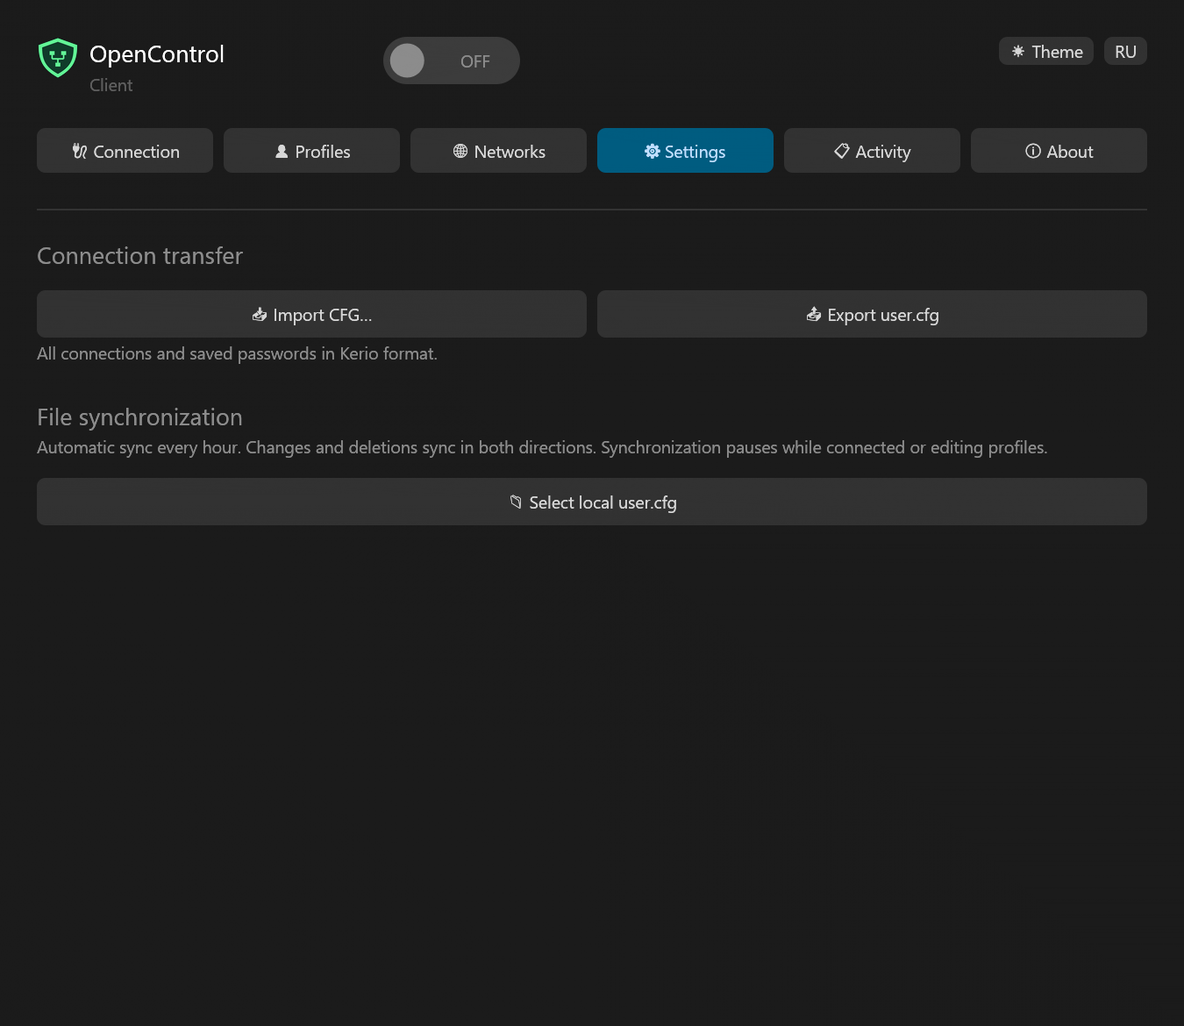
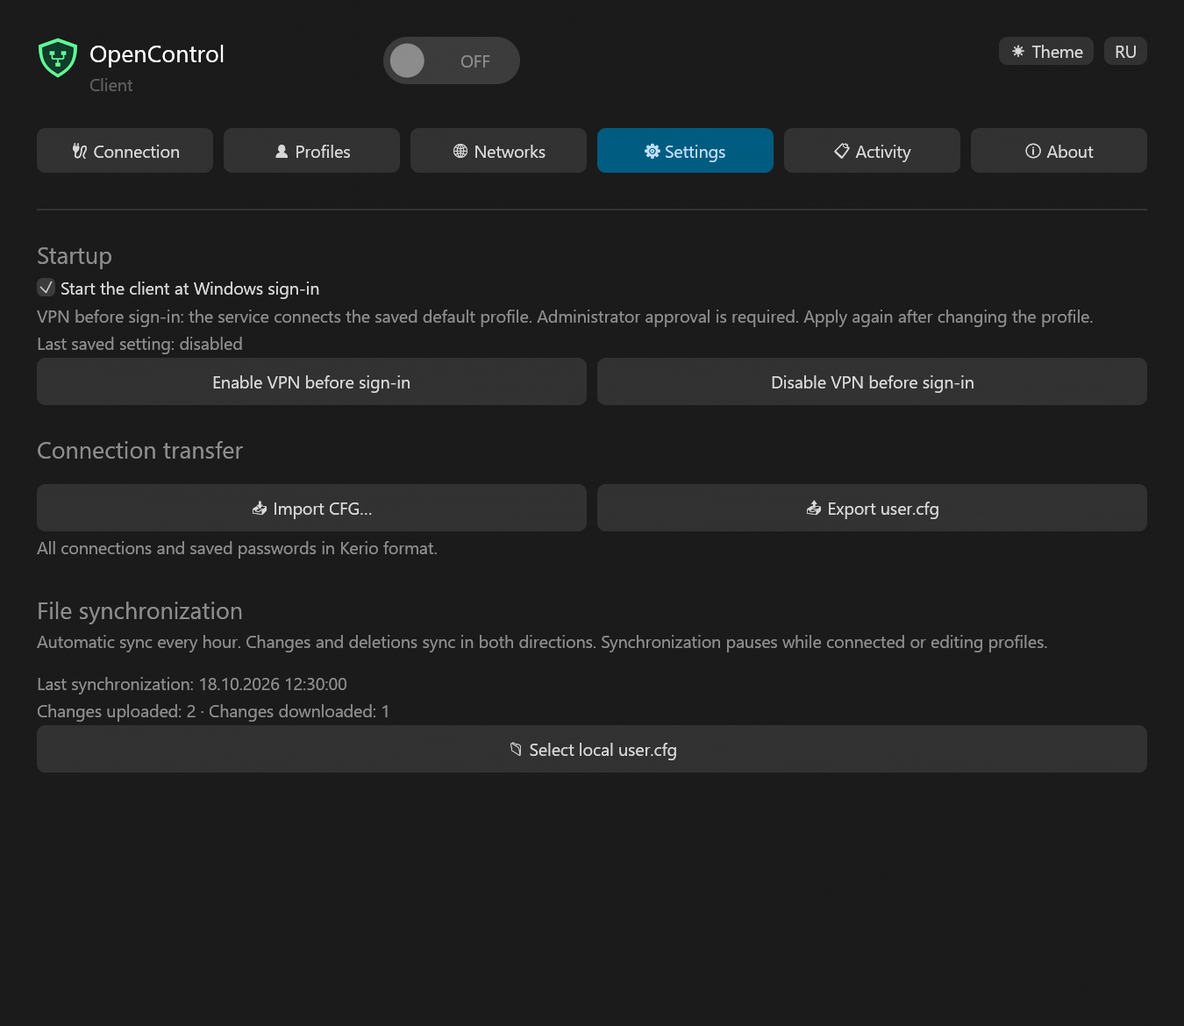
OpenControl Client 1.0.3

diff --git a/README.en.md b/README.en.md
@@ -2,7 +2,7 @@
 <h1 align="center">OpenControl Client</h1>
 <p align="center">Your organization’s network · Windows 10 / 11</p>
 <p align="center"><a href="README.md">Русский</a> · <b>English</b></p>
-<p align="center"><a href="https://github.com/nr084/opencontrol-client-windows-releases/releases/latest">Download 1.0.2</a> · <a href="RELEASE_NOTES.md">What’s new</a> · <a href="SHA256SUMS">SHA256</a></p>
+<p align="center"><a href="https://github.com/nr084/opencontrol-client-windows-releases/releases/latest">Download 1.0.3</a> · <a href="RELEASE_NOTES.md">What’s new</a> · <a href="SHA256SUMS">SHA256</a></p>
 
 OpenControl connects your PC to a private corporate network through Kerio Control. Your organization supplies the server address and account. This independent client is not an official Kerio/GFI product or a provider of VPN access.
 
@@ -14,9 +14,9 @@ Each MSI includes Russian and English. **Russian is the default on first launch*
 
 | Computer | Download |
 |---|---|
-| Intel / AMD 64-bit PC | [x64](https://github.com/nr084/opencontrol-client-windows-releases/releases/download/v1.0.2/OpenControl-client-1.0.2-windows-x64.msi) |
-| Windows 10, 32-bit | [x86](https://github.com/nr084/opencontrol-client-windows-releases/releases/download/v1.0.2/OpenControl-client-1.0.2-windows-x86.msi) |
-| Windows on ARM, including a Windows 11 VM on Mac | [ARM64](https://github.com/nr084/opencontrol-client-windows-releases/releases/download/v1.0.2/OpenControl-client-1.0.2-windows-arm64.msi) |
+| Intel / AMD 64-bit PC | [x64](https://github.com/nr084/opencontrol-client-windows-releases/releases/download/v1.0.3/OpenControl-client-1.0.3-windows-x64.msi) |
+| Windows 10, 32-bit | [x86](https://github.com/nr084/opencontrol-client-windows-releases/releases/download/v1.0.3/OpenControl-client-1.0.3-windows-x86.msi) |
+| Windows on ARM, including a Windows 11 VM on Mac | [ARM64](https://github.com/nr084/opencontrol-client-windows-releases/releases/download/v1.0.3/OpenControl-client-1.0.3-windows-arm64.msi) |
 
 1. Install the app. Desktop and Start menu shortcuts are created by default.
 2. Add a connection in **Profiles**, or import your CFG in **Settings**.
@@ -35,7 +35,7 @@ Once connected, the window hides in the tray and a notification identifies the t
 | Reconnect | Right-click the tray → Reconnect; the old session finishes before the next starts |
 | Disconnect or exit | Disconnect ends VPN; Exit also closes the app |
 | Traffic totals | Hover over the tray for session Upload / Download; totals also appear in the window |
-| Windows startup | Starts in the tray without connecting VPN automatically; disable in Windows Startup Apps if desired |
+| Windows startup | Starts in the tray without connecting VPN automatically; enable or disable it in Settings |
 | Appearance | Light/dark theme, Windows Segoe UI, DPI scaling and multi-size icons; no 3D accelerator required |
 | Activity | Connection events, without passwords or packet contents |
 
@@ -45,7 +45,7 @@ Windows may put the icon in its overflow area. Notification visibility depends o
 
 ![Activity](assets/activity-en.png)
 
-The activity log keeps the time, tunnel name, connections, disconnections and errors across profile changes: up to 500 events in memory until exit, newest first, using Windows local time. The client reports its actual version to the server: **1.0.2 · build 3**, visible on the next connection.
+The activity log keeps the time, tunnel name, connections, disconnections and errors across profile changes: up to 500 events in memory until exit, newest first, using Windows local time. The client reports its actual version to the server: **1.0.3 · build 4**, visible on the next connection.
 
 With multiple profiles, use **Switch profile** in the tray menu: choosing a profile disconnects the old tunnel and connects the selected one automatically. A password or certificate prompt appears only when needed.
 
@@ -71,6 +71,8 @@ New or changed certificates require confirmation; expired certificates require a
 
 Duplicates require **Keep existing**, **Replace from file**, or **Keep both**. Normal import leaves the original file unchanged. Up to 100 profiles are supported.
 
+Export follows the Kerio layout: UTF-8 without BOM, LF, two-space indentation and an `application` section. Synchronization preserves existing application options.
+
 **Export user.cfg** saves all profiles and saved passwords in Kerio format; session-only passwords are excluded. The file contains portable passwords, so treat it as access data. Synthetic re-import is tested; acceptance by the external Kerio client still needs checking.
 
 **Select local user.cfg** links the profile list to a file:
@@ -82,6 +84,8 @@ Duplicates require **Keep existing**, **Replace from file**, or **Keep both**. N
 - A missing or malformed file never clears the profile list.
 - **Unlink file** preserves both the file and local profiles.
 
+Settings shows the last sync time, uploaded/downloaded change counts or an error reason. Current profile/password edits are saved first. Temporary errors retry hourly; conflicts require a decision.
+
 Network paths are unsupported. The file is not uploaded to the cloud.
 
 ## Networks outside VPN
@@ -89,6 +93,18 @@ Network paths are unsupported. The file is not uploaded to the cloud.
 ![Network exclusions](assets/networks-en.png)
 
 In **Networks**, enter destinations that should use your regular connection, such as `192.168.1.0/24` or `10.0.0.5/32`. These are shared IPv4 exclusions for all profiles, up to 128 entries, applied on the next connection. Per-app routing and IPv6 exclusions are not provided.
+
+## VPN before Windows sign-in
+
+1. In **Profiles**, choose the default profile, save its password and trust the server certificate.
+2. In **Settings**, choose **Enable VPN before sign-in** and approve UAC.
+3. On the next Windows start, the service connects the saved profile before anyone signs in, retrying temporary network failures.
+
+After sign-in the client takes control of the running tunnel. Disconnecting or switching profiles finishes the previous tunnel first. **Disable VPN before sign-in** disables future service-start connections; use the ordinary switch to disconnect the current session. Apply the setting again after changing the password, certificate, default profile or network exclusions.
+
+This is a computer-wide setting. Its protected connection copy uses Windows DPAPI and SYSTEM/Administrators-only access. Configuration requires administrator approval. Unknown or changed certificates are never silently accepted. Uninstall removes this copy; upgrades preserve it.
+
+**Start the client at Windows sign-in** controls only the user application, independently of the pre-sign-in VPN.
 
 ## Updates, uninstall and checks
 
@@ -102,7 +118,7 @@ Uninstall through **Windows Settings → Apps → OpenControl Client → Uninsta
 
 The Wintun driver is officially signed. Project EXE/MSI files are not yet publisher-signed. Check [SHA256SUMS](SHA256SUMS).
 
-79 automated tests, three architecture builds and MSI content checks passed. Retry after authentication failure was tested with a synthetic Windows pipe; native tray updates were also checked. Full operation on the target ARM VM and a real firewall remains outside these tests. See [VALIDATION.md](VALIDATION.md).
+85 automated tests, three architecture builds and MSI content checks passed. Retry after authentication failure was tested with a synthetic Windows pipe; native tray updates were also checked. Full operation on the target ARM VM and a real firewall remains outside these tests. See [VALIDATION.md](VALIDATION.md).
 
 All screenshots contain fictional profiles. This repository publishes installers and documentation; client sources are private. The [protocol library](https://github.com/nr084/opencontrol-protocol) is a separate public project.
 

diff --git a/VALIDATION.md b/VALIDATION.md
@@ -1,13 +1,13 @@
-# Validation / Проверки — 1.0.2
+# Validation / Проверки — 1.0.3
 
-Date / Дата: 2026-10-16.
+Date / Дата: 2026-10-18.
 
 | Check / Проверка | Result / Результат |
 |---|---|
 | Rust stable | 1.99.1, upstream check passed |
 | OpenControl Protocol | 0.2.0, upstream HEAD 35a5c848fb2a25a64da36268026906ce3757b974 |
 | Format + clippy all targets, warnings denied | Passed / Пройдено |
-| Unit + ROUTES regression tests | 75 + 4 = 79 passed |
+| Unit + ROUTES regression tests | 81 + 4 = 85 passed |
 | Native release builds, static CRT | x86 / x64 / ARM64 passed |
 | MSI payloads | Six allowlisted files per package; extracted EXE SHA256 matches build |
 | MSI platform/language | Intel / x64 / Arm64; Russian installer 1049; application RU/EN |
@@ -28,9 +28,9 @@ Date / Дата: 2026-10-16.
 | Live corporate VPN, suspend/resume, actual network cleanup | Not tested / Не проверено |
 | External Kerio client accepting exported CFG | Not tested; synthetic re-import only |
 
-Service boundary: local interactive clients only, protected pipe ACL without user pipe-instance creation, remote-pipe rejection, server PID checked against SCM before credentials. Each VPN session owns a fresh pipe instance; the old protected handle remains until its successor exists, after VPN cleanup. The service does not load user profiles, accept shell commands or persist passwords. These are source/unit checks, not a completed installed-service security assessment.
+Service boundary: local interactive clients only, protected pipe ACL without user pipe-instance creation, remote-pipe rejection, server PID checked against SCM before credentials. Each VPN session owns a fresh pipe instance; the old protected handle remains until its successor exists, after VPN cleanup. The service does not load per-user profile files or accept shell commands. In 1.0.3 it may read the explicitly configured protected machine boot profile; only the UAC helper writes that credential. These are source/unit checks, not a completed installed-service security assessment.
 
-Граница службы: локальные интерактивные клиенты, ограниченный ACL канала без права создавать экземпляры, запрет удалённых подключений, проверка PID службы через SCM до отправки пароля. Одна сессия принадлежит одному открытому каналу. Служба не загружает пользовательские профили, не принимает команды оболочки и не сохраняет пароли. Это проверки кода и тестов, а не завершённая проверка установленной службы.
+Граница службы: локальные интерактивные клиенты, ограниченный ACL канала без права создавать экземпляры, запрет удалённых подключений, проверка PID службы через SCM до отправки пароля. Одна сессия принадлежит одному открытому каналу. Служба не загружает файлы пользовательских профилей и не принимает команды оболочки. В 1.0.3 она читает отдельно настроенную защищённую конфигурацию запуска компьютера; записывает её только UAC-помощник. Это проверки кода и тестов, а не завершённая проверка установленной службы.
 
 No real credentials, private profiles or user screenshots are included in this repository or its assets. All displayed UI images use synthetic data. The privacy audit does not cover inaccessible deleted GitHub objects/caches or third-party copies.
 
@@ -47,3 +47,8 @@ Updater checks: numeric stable-version comparison, architecture selection, fixed
 1.0.2: successful update results 0/3010 open the main window even with the legacy --autostart argument; failed/cancelled updates retain tray startup. Synthetic Kerio tests cover existing/missing paths, no read before selection, cancellation without profile changes, own-file preview, read failure and duplicate decisions. RU/EN import and About screenshots use synthetic settings. Preview timestamps advance to let modal animations settle. Native x64 CPU startup/render/shutdown passed. Full MSI update/UAC/relaunch and target ARM VM acceptance remain untested.
 
 1.0.2: результаты обновления 0/3010 открывают окно, в том числе при старом --autostart. Синтетические тесты проверяют выбор CFG, отмену, отсутствие файла, ошибку чтения и дубли. Полный цикл автообновления с UAC на чистой VM не проверен.
+
+
+1.0.3: synthetic export matches exact Kerio XML layout, including declaration, LF, indentation, empty elements and application section. Bidirectional sync tests cover add/edit/delete uploads and repeat no-op. Result timestamps, counts and error codes are persisted. No personal fixtures are shipped.
+
+Pre-sign-in VPN: machine DPAPI roundtrip, required saved-password/pin validation, one-shot GUI-owned pipe creation, boot-tunnel status/cleanup handoff and existing broker retry tests pass. GUI helper verifies the elevated child PID, helper verifies parent pipe PID. Its one-shot pipe is restricted to owner/Administrators/SYSTEM; the existing VPN service ACL is unchanged. The fixed registry credential key is restricted to SYSTEM/Administrators. MSI uninstall cleanup is fixed-purpose, deferred and excluded from upgrades. Actual UAC, machine registry persistence, reboot-before-logon and live VPN acceptance remain untested; unit tests do not replace these checks.

diff --git a/RELEASE_NOTES.md b/RELEASE_NOTES.md
@@ -1,3 +1,27 @@
+# OpenControl Client 1.0.3
+
+## Русский
+
+- Синхронизация сохраняет изменения профиля и пароля перед выгрузкой. Добавлены время последней попытки, число изменений в обе стороны и причина ошибки; временные ошибки повторяются через час, конфликты решаются вручную.
+- Экспорт CFG оформлен в формате Kerio: UTF-8 без BOM, LF, отступы по два пробела, секция application. Синхронизация сохраняет существующие параметры приложения.
+- В настройках можно включать и выключать запуск клиента при входе в Windows.
+- Добавлено подключение профиля по умолчанию до входа пользователя через службу. Включение требует сохранённого пароля, подтверждённого сертификата и UAC. Защищённая копия хранится для SYSTEM/администраторов; после изменения профиля настройку нужно применить повторно.
+- После входа клиент управляет уже работающим туннелем. При смене профиля старое соединение завершается перед новым.
+- Обновлены RU/EN-инструкции и скриншоты. MSI x86/x64/ARM64, оба языка в каждом пакете. Версия сервера: 1.0.3 · build 4.
+- 85 автоматических тестов. Проверка фактической перезагрузки, UAC и подключения до входа на целевом компьютере остаётся необходимой; реальный корпоративный VPN и ARM VM здесь не проверялись.
+
+## English
+
+- Synchronization saves profile and password edits before upload. Settings shows the last attempt time, bidirectional change counts and errors. Temporary failures retry hourly; conflicts require a choice.
+- CFG export follows Kerio formatting: UTF-8 without BOM, LF, two-space indentation, application section. Sync preserves existing application options.
+- Settings can enable or disable client startup at Windows sign-in.
+- The default VPN profile can connect through the service before sign-in. Enabling requires a saved password, trusted certificate and UAC. The protected copy is restricted to SYSTEM/Administrators; apply again after profile changes.
+- After sign-in, the client controls the running tunnel. Profile switching finishes the old connection first.
+- Updated RU/EN guides and screenshots. Bilingual x86/x64/ARM64 MSI packages. Server-reported version: 1.0.3 · build 4.
+- 85 automated tests. Actual reboot/UAC/pre-sign-in VPN acceptance remains necessary on the target machine; real corporate VPN and ARM VM operation were not tested here.
+
+---
+
 # OpenControl Client 1.0.2
 
 ## Русский

diff --git a/PRIVACY.md b/PRIVACY.md
@@ -20,7 +20,9 @@ OpenControl для Windows отправляет учётные данные ук
 
 ## Служба и локальные файлы (0.6)
 
-Интерфейс работает от обычного пользователя. Служба LocalSystem получает параметры VPN и пароль только по локальному каналу Windows с ограниченными правами доступа; удалённые клиенты запрещены. Учётные данные хранятся в памяти на время соединения, не записываются службой на диск и не отправляются разработчику. Завершение клиентского процесса закрывает его сессию.
+Интерфейс работает от обычного пользователя. Служба LocalSystem получает параметры VPN и пароль только по локальному каналу Windows с ограниченными правами доступа; удалённые клиенты запрещены. При обычном подключении учётные данные остаются в памяти на время соединения и не отправляются разработчику. Завершение клиентского процесса закрывает его сессию.
+
+При отдельном включении VPN до входа пользователя UAC-помощник сохраняет защищённую копию выбранного профиля и пароля в фиксированном ключе реестра компьютера: машинная DPAPI и доступ только SYSTEM/администраторов. Служба читает её при запуске. Отключение этой функции и удаление программы удаляют копию; обновление сохраняет её. Удаление обычного пользовательского профиля само по себе эту отдельную копию не удаляет — отключите VPN до входа в настройках. До передачи управления интерфейсу соединение работает независимо от входа пользователя.
 
 По явному выбору пользователя экспорт и двусторонняя синхронизация записывают список соединений и сохранённые пароли в выбранный локальный CFG. Пароли в CFG используют обратимый формат Kerio D3S; защита DPAPI относится к локальному хранилищу OpenControl, а не к переносимому CFG. Синхронизация включает удаления и может быть отключена в настройках. Удаление программы сохраняет пользовательское хранилище и выбранные внешние файлы.
 

diff --git a/PRIVACY.en.md b/PRIVACY.en.md
@@ -20,7 +20,9 @@ User-excluded networks use the regular connection outside VPN, including DNS ser
 
 ## Service and local files (0.6)
 
-The interface runs as an ordinary user. The LocalSystem service receives VPN parameters and the password through a local Windows pipe with restricted permissions; remote clients are rejected. Credentials remain in memory for the connection, are not written to disk by the service and are not sent to the developer. Closing the client process ends its session.
+The interface runs as an ordinary user. The LocalSystem service receives VPN parameters and the password through a local Windows pipe with restricted permissions; remote clients are rejected. During ordinary connections, credentials remain in memory and are not sent to the developer. Closing the client process ends its session.
+
+When pre-sign-in VPN is explicitly enabled, the UAC helper saves a protected profile/password copy in a fixed machine registry key using machine DPAPI and SYSTEM/Administrators-only access. The service reads it at startup. Disabling this feature or uninstalling deletes the copy; upgrades preserve it. Deleting the ordinary user profile does not remove this separate copy: disable pre-sign-in VPN in Settings. Until the interface takes control, the connection runs independently of user sign-in.
 
 When explicitly selected by the user, export and two-way synchronization write connections and saved passwords to a chosen local CFG. CFG passwords use Kerio's reversible D3S format; DPAPI protection applies to the OpenControl store, not a portable CFG. Synchronization includes deletions and can be unlinked in Settings. Uninstall preserves the user's store and selected external files.
 
